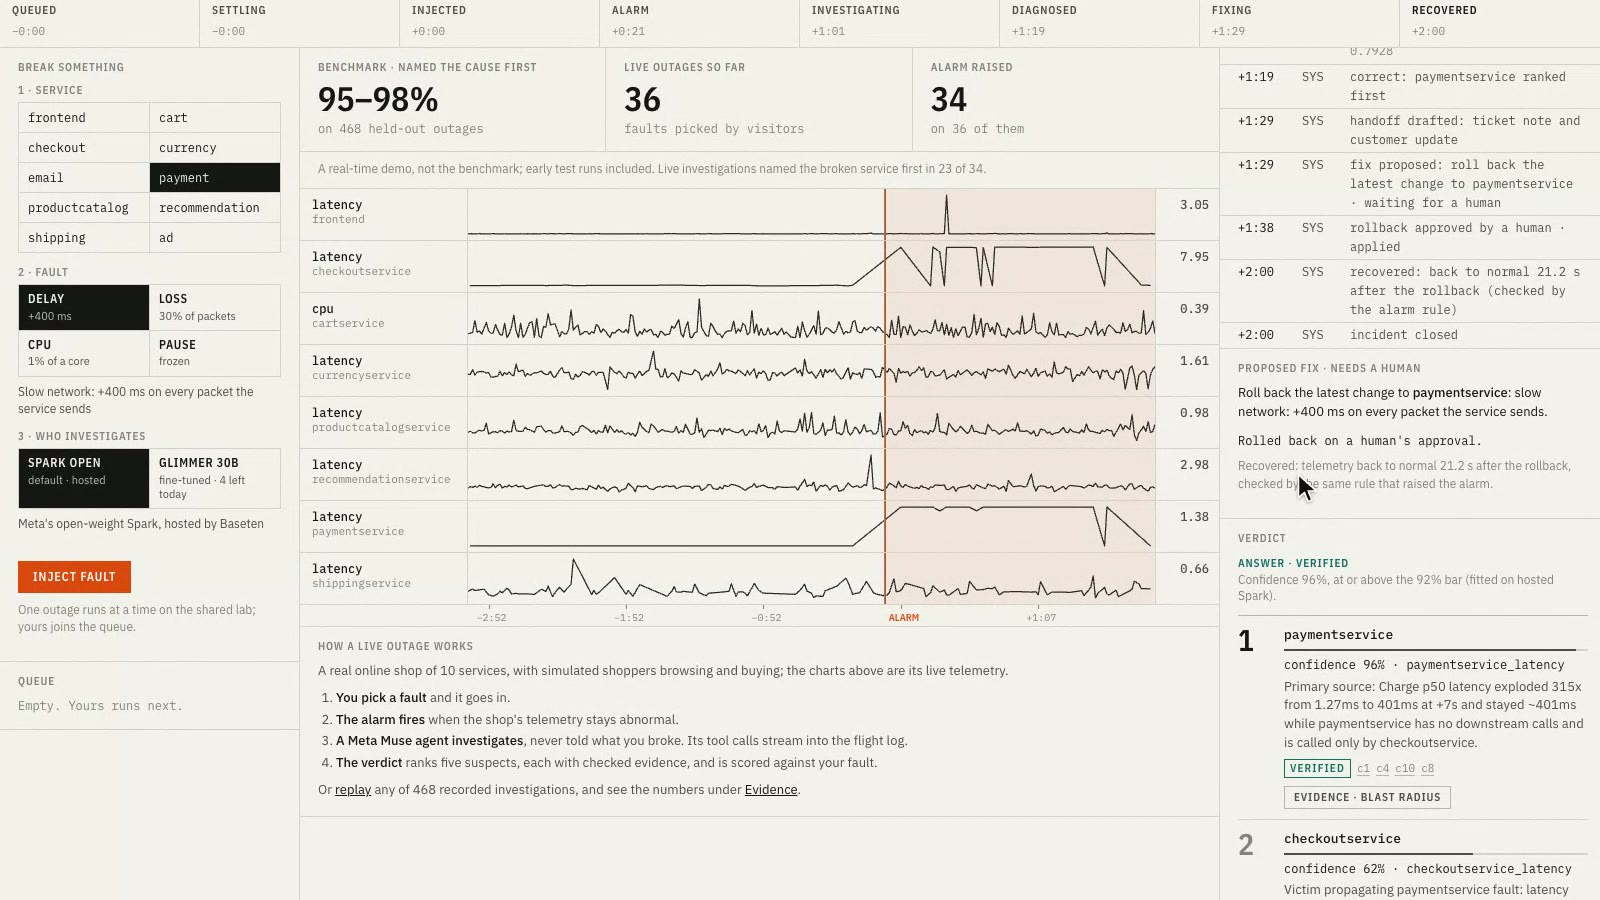
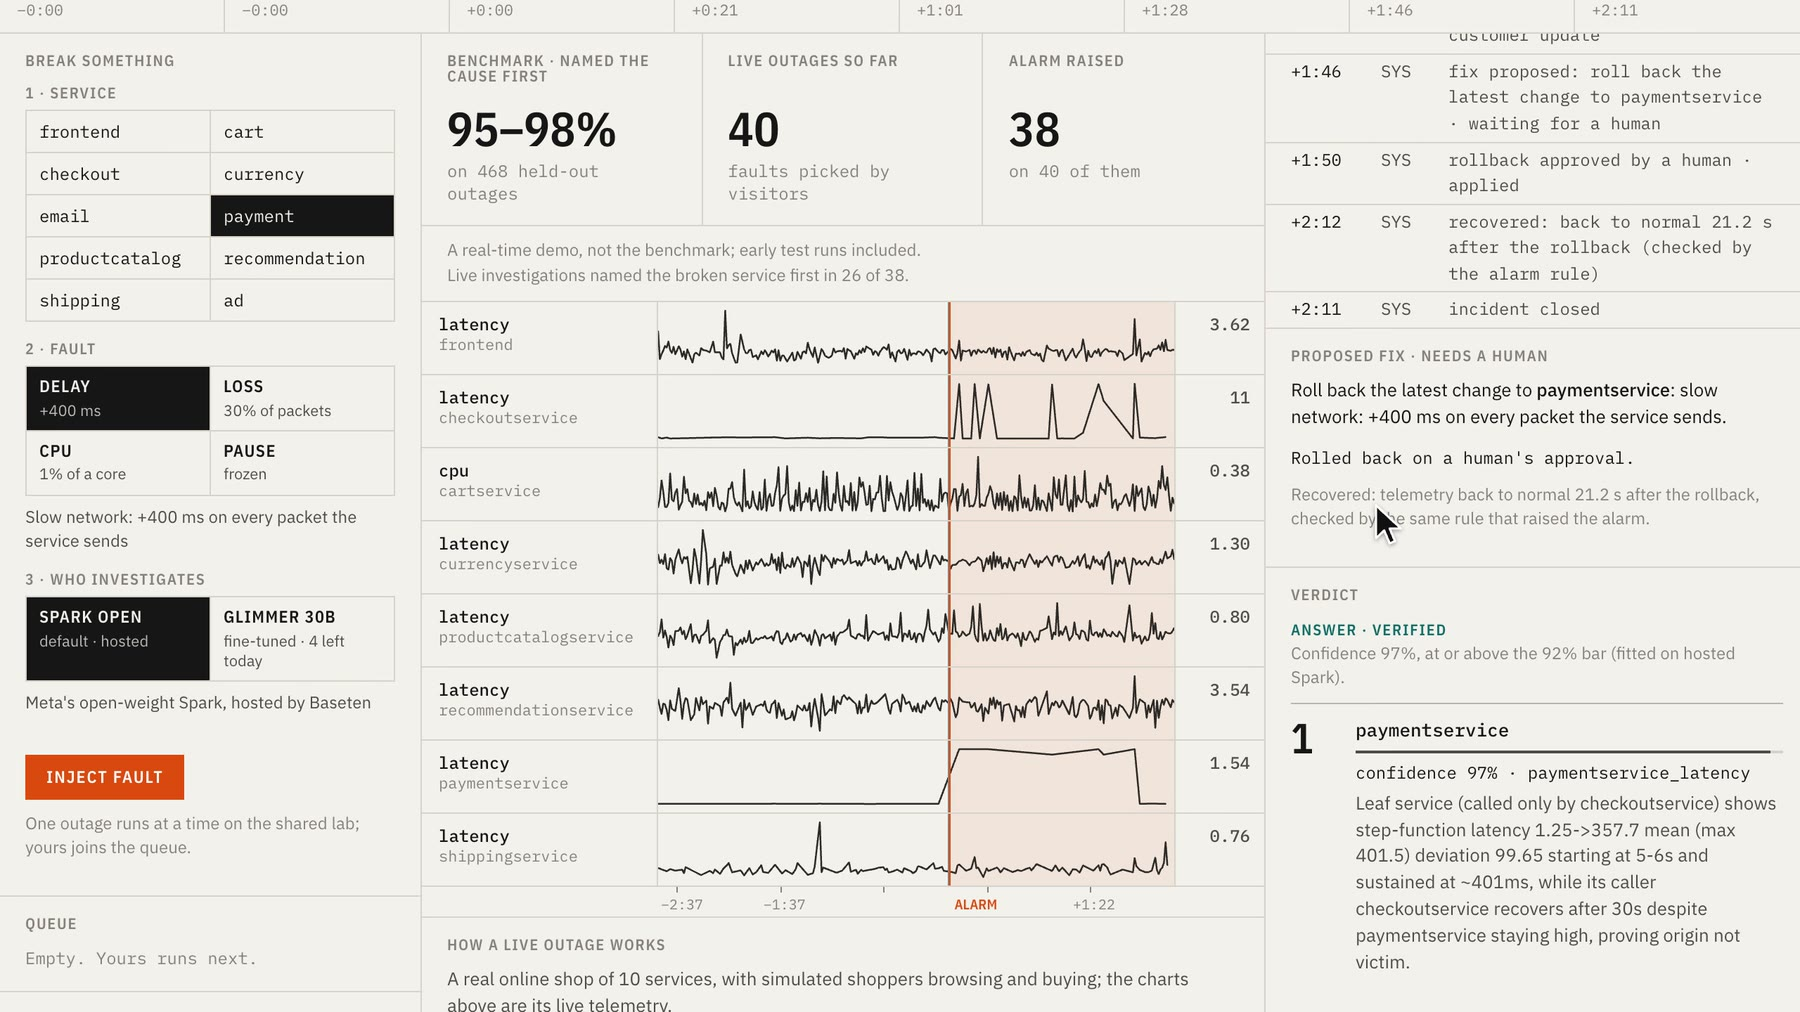
Sharpen the README's recording and tidy its badges and captions
The GIF and the live-lab still come from a new screen recording made at
twice the resolution (screenshots at 2560x1440, since Playwright's video
capture ignores the device scale) on the fixed live page, built 1200 px
wide with 128 colours. Badges use a flat square style with graphite
labels and the Hugging Face logo in colour; captions are one short line
at normal size. The live tally sentence now cites the records committed
at 3:17 PM ET (40 outages) and the approvals line all nine recorded
approvals, so both match what the repository holds.

diff --git a/README.md b/README.md
@@ -1,9 +1,9 @@
 # Epicenter
 
-[![Live demo](https://img.shields.io/badge/live_demo-epicenter.watch-d6451a)](https://epicenter.watch) [![Model on Hugging Face](https://img.shields.io/badge/model-Glimmer_30B_LoRA-ffcc4d?logo=huggingface&logoColor=black)](https://huggingface.co/maxkempler/epicenter-glimmer-30b-rca-lora) [![License: MIT](https://img.shields.io/badge/license-MIT-2a78d6)](LICENSE) [![Tests](https://img.shields.io/badge/tests-191-2ea44f)](tests)
+[![Live demo](https://img.shields.io/badge/live_demo-epicenter.watch-d6451a?style=flat-square&labelColor=2b2b2b)](https://epicenter.watch) [![Model on Hugging Face](https://img.shields.io/badge/Hugging_Face-Glimmer_30B_LoRA-ffd21e?style=flat-square&logo=huggingface&logoColor=ffd21e&labelColor=2b2b2b)](https://huggingface.co/maxkempler/epicenter-glimmer-30b-rca-lora) [![License: MIT](https://img.shields.io/badge/license-MIT-6e6c66?style=flat-square&labelColor=2b2b2b)](LICENSE) [![Tests](https://img.shields.io/badge/tests-191_passing-6e6c66?style=flat-square&labelColor=2b2b2b)](tests)
 
-<p align="center"><img src="media/demo.gif" alt="The live lab: paymentservice is slowed, the alarm fires, the agent investigates, ranks paymentservice first at 96% and verified, a person approves the proposed rollback, and the shop recovers 21 s later" width="900"></p>
-<p align="center"><sub>A real outage on <a href="https://epicenter.watch">epicenter.watch</a>, sped up: break a service, the alarm fires, the agent investigates and names the cause with checked evidence, a person approves the rollback, and the shop recovers.</sub></p>
+<p align="center"><img src="media/demo.gif" alt="The live lab: paymentservice is slowed, the alarm fires, the agent investigates, ranks paymentservice first at 97% and verified, a person approves the proposed rollback, and the shop recovers 21.2 s later" width="900"></p>
+<p align="center"><em>A real outage on <a href="https://epicenter.watch">epicenter.watch</a>, sped up.</em></p>
 
 **Epicenter watches server and service telemetry, detects when it departs from normal, and sends a Meta Muse agent to find which component caused it.** The agent queries metrics, logs, traces and the call graph, and returns five ranked root causes. A deterministic verifier checks the evidence behind every cause, and the agent drafts the internal ticket note and the customer update, citing that evidence sentence by sentence.
 
@@ -57,7 +57,7 @@ flowchart LR
 4. **Hand off.** The agent drafts an internal ticket note and a customer update. Every sentence cites evidence, and the share of sentences whose citations check out is reported as groundedness.
 
 <p align="center"><img src="media/replay.png" alt="A recorded investigation in the console: the metrics that moved, the alarm line, and the verdict, with currencyservice first at 95% and verified, and checkoutservice's 'why not first?' panel open, comparing its strongest evidence with the cause's" width="900"></p>
-<p align="center"><sub>A recorded investigation replayed in the console: the metrics around the alarm, and the verdict with the second suspect's <i>why not first?</i> panel open.</sub></p>
+<p align="center"><em>A recorded investigation in the console, with the second suspect's "why not first?" panel open.</em></p>
 
 The same agent loop runs on three Meta models: Muse Spark through the Meta Model API, Muse Spark Open on Baseten, and Muse Glimmer 30B served by vLLM, before and after fine-tuning. Glimmer speaks Chat Completions rather than the Responses API, so a small adapter ([`src/chat_adapter.py`](src/chat_adapter.py)) translates between the two and leaves the agent, verifier and cache unchanged.
 
@@ -71,11 +71,11 @@ The same agent loop runs on three Meta models: Muse Spark through the Meta Model
 - **Watch it unfold.** Outages run one at a time on the shared system: settle, inject, alarm, investigate, diagnose, recover. The console streams the telemetry, the agent's tool calls, the ranked causes and the handoff drafts as they happen.
 - **The agent is never told what broke.** The alarm uses the same sustained-deviation rule as the end-to-end evaluation, and the verdict compares the agent's first pick with the injected fault afterwards. Every outage is appended to [`runs/live/incidents.jsonl`](runs/live/incidents.jsonl).
 - **Choose who investigates.** Muse Spark Open is the default. When enabled, a visitor can pick the fine-tuned Glimmer instead, served on a dedicated GPU rented on Modal, capped at 5 outages a day.
-- **Approve the fix.** When the first cause passed the verifier, the lab looks the blamed service up in its change log (the faults it applied, as a deploy history records changes). If that service has a recorded change, it proposes rolling it back and waits 45 s for a human to approve. On approval it reverts the change and confirms recovery with the same rule that raised the alarm: in the three recorded approvals, telemetry was back to normal 22.3, 27.3 and 37.5 s later. A wrong diagnosis finds no change to roll back, so nothing is proposed. Unapproved, the lab restores itself anyway and records the proposal as timed out. The rollback only ever reverses the lab's own fault.
+- **Approve the fix.** When the first cause passed the verifier, the lab looks the blamed service up in its change log (the faults it applied, as a deploy history records changes). If that service has a recorded change, it proposes rolling it back and waits 45 s for a human to approve. On approval it reverts the change and confirms recovery with the same rule that raised the alarm: in all nine recorded approvals, telemetry was back to normal 20.2 to 37.5 s later. A wrong diagnosis finds no change to roll back, so nothing is proposed. Unapproved, the lab restores itself anyway and records the proposal as timed out. The rollback only ever reverses the lab's own fault.
 - **Why first, and why not first.** Each cause in a verdict opens a panel: its strongest cited evidence against the first cause's and the verifier's bar, the verifier's decision, the tool calls it cites (each one finds its step in the flight log), and its blast radius. The blast radius lists the services that call into it according to the outage's traces, which of them showed problems, and, on the live shop, the customer-facing flows that pass through it (browsing products, the cart, checkout). That is what a customer update is written from.
 
-<p align="center"><img src="media/live.jpg" alt="The live lab after a real outage: every phase from queued to recovered in the top rail, the charts, the proposed rollback of the latest change to paymentservice approved by a person, the recovery line, and the verified verdict with paymentservice first at 96%" width="900"></p>
-<p align="center"><sub>A frame from a screen recording of a real outage on epicenter.watch on November 2, not a mock-up: paymentservice slowed by 400 ms, named first at 96% and verified, the rollback approved by a person, telemetry back to normal 21.2 s later.</sub></p>
+<p align="center"><img src="media/live.jpg" alt="The live lab after a real outage: every phase from queued to recovered in the top rail, the charts, the proposed rollback of the latest change to paymentservice approved by a person, the recovery line, and the verified verdict with paymentservice first at 97%" width="900"></p>
+<p align="center"><em>A real outage on November 2, not a mock-up: paymentservice named first at 97%, verified, rollback approved, recovered 21.2 s later.</em></p>
 
 Every service is measured from its callers' spans as well as its own, the way a service mesh would, so even an untraced service shows up. The calibration batch after that change: alarm on 9 of 9 faults, the broken service ranked first on 6 and in the top three on 8. The three misses are a starved checkout service read as its slow callee, cart-service packet loss read as the Redis it talks to, and a starved frontend, where every request looks slow.
 
@@ -328,7 +328,7 @@ modal deploy scripts/finetune/modal_app.py               # vLLM: base and adapte
 
 - **Benchmarks are cleaner than production.** RCAEval injects one fault at a time into three demo systems. Real outages overlap, cascade and come with noisier telemetry.
 - **Detection is the weak link end to end.** Even with error logs it misses 30 of RE3's 81 outages (52 with metrics alone), and the SMD detectors trade precision against recall at F1 0.11–0.31. The log signal's settings were chosen where they did no harm on train, not where they were shown to help, because the train split has none of the outage types it later caught.
-- **The live lab is small.** 10 services, four fault types, and calibration batches of nine outages: a demonstration, not a benchmark. Its public tally counts every outage, early test runs included. In the records committed on November 2 at 1:35 PM ET there are 33 outages; the alarm fired on 31, and every outage whose alarm fires is investigated. Of those 31, the broken service was named first in 21 and in the top three in 23 ([`runs/live/incidents.jsonl`](runs/live/incidents.jsonl)). With Spark Open, the lab's default, 17 of the 23 live answers that cleared the 92% bar were right. That bar was fitted on hosted Spark's benchmark runs; with 23 answers, a different model and a noisier real-time setting, this is a caution, not a measurement of how well the bar transfers. Its clearest blind spot is a frozen service the shop can't work without (currency, recommendations, the product catalog): the frontend waits on it, every service's traffic collapses at once, the frozen service itself goes silent, and the frontend looks like the cause. One of those four outages was named first, against all four freezes of the optional ads service. The verifier also scores a service going silent as weak evidence; treating silence as a signal is future work.
+- **The live lab is small.** 10 services, four fault types, and calibration batches of nine outages: a demonstration, not a benchmark. Its public tally counts every outage, early test runs included. In the records committed on November 2 at 3:17 PM ET there are 40 outages; the alarm fired on 38, and every outage whose alarm fires is investigated. Of those 38, the broken service was named first in 26 and in the top three in 28 ([`runs/live/incidents.jsonl`](runs/live/incidents.jsonl)). With Spark Open, the lab's default, 22 of the 30 live answers that cleared the 92% bar were right. That bar was fitted on hosted Spark's benchmark runs; with 30 answers, a different model and a noisier real-time setting, this is a caution, not a measurement of how well the bar transfers. Its clearest blind spot is a frozen service the shop can't work without (currency, recommendations, the product catalog): the frontend waits on it, every service's traffic collapses at once, the frozen service itself goes silent, and the frontend looks like the cause. One of those four outages was named first, against all four freezes of the optional ads service. The verifier also scores a service going silent as weak evidence; treating silence as a signal is future work.
 - **The fine-tuned model still trails the hosted one** on first place for RE1 and RE3. It learned from Spark's actions and short notes; Spark's full reasoning is not available to learn from.
 - **In this demo Glimmer runs on a rented cloud GPU.** Keeping telemetry on your own hardware is what open weights make possible, not what this deployment does.
 - **It can blame a service's own database.** In 2 of hosted Spark's 19 wrong first answers on test, it named a Train Ticket service's MongoDB instead of the service whose fault made the database change. The database's change is real evidence, so the verifier accepts it: the verifier checks that cited evidence is real, not which way cause and effect run. A check of which changed first, developed on train outages under a new spec, is the natural next step. `python scripts/report_misses.py` reproduces the count.
